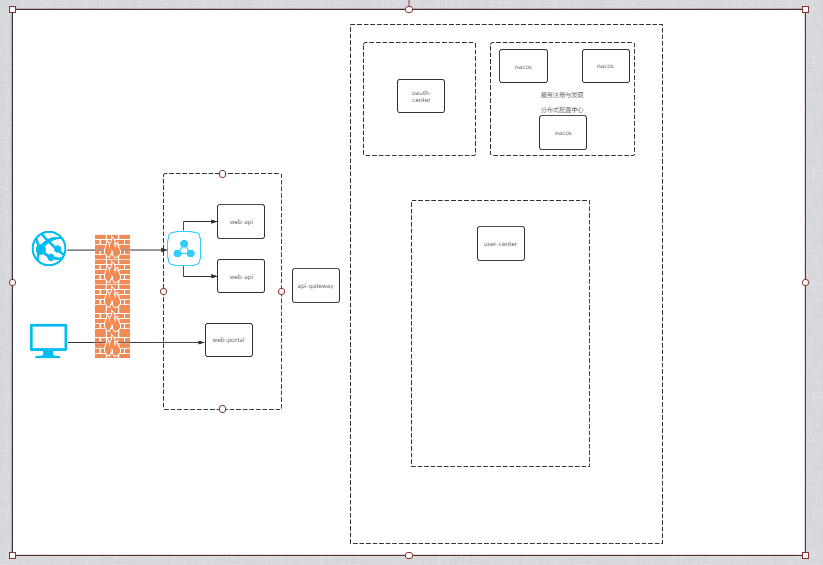
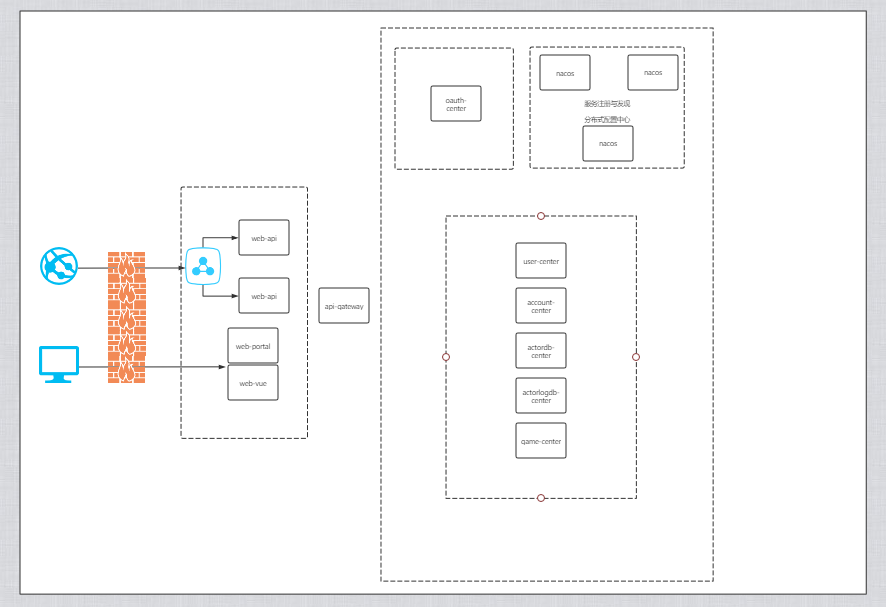
更新README

diff --git a/README.md b/README.md
@@ -6,8 +6,11 @@
  ├─api-gateway 【网关】 <br/>
  │  
  ├─business-center 【业务类微服务】 <br/> 
- │  │  
- │  └─user-center 【user中心】<br/> 
+ │  │─account-center 【account模块】 <br/> 
+ │  │─actordb-center 【actordb模块】 <br/> 
+ │  │─actorlogdb-center 【actorlogdb模块】 <br/> 
+ │  │─game-center 【game模块】 <br/> 
+ │  └─user-center 【user模块】<br/> 
  │    
  ├─doc【文档】 <br/> 
  │ <br/> 
@@ -22,8 +25,10 @@
  │─test-untitled 【测试用例】 <br/>
  │<br/>
  │─web-api 【对外统一提供内部服务接口工程】 <br/>
+ │<br/>
+ │─web-portal 【后台web工程】 <br/>
  │     
- └─web-portal 【后台web工程】 <br/> 
+ └─web-vue 【后台web工程-vue版】 <br/> 
         
 ## 项目模块
 ![Image text](doc/img/framework.png)
